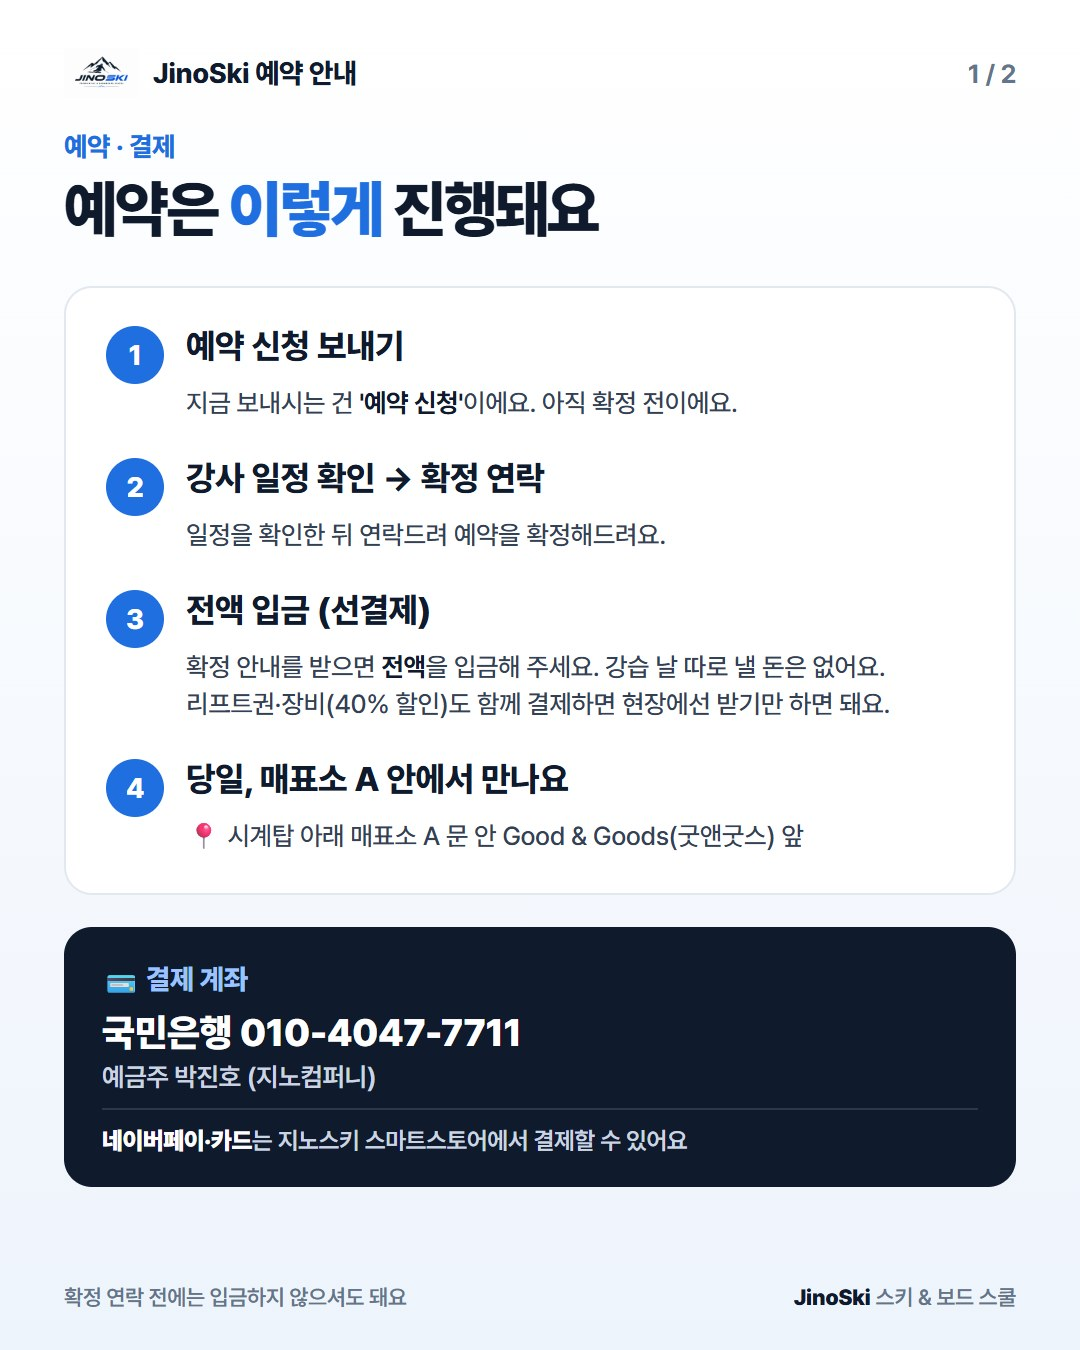
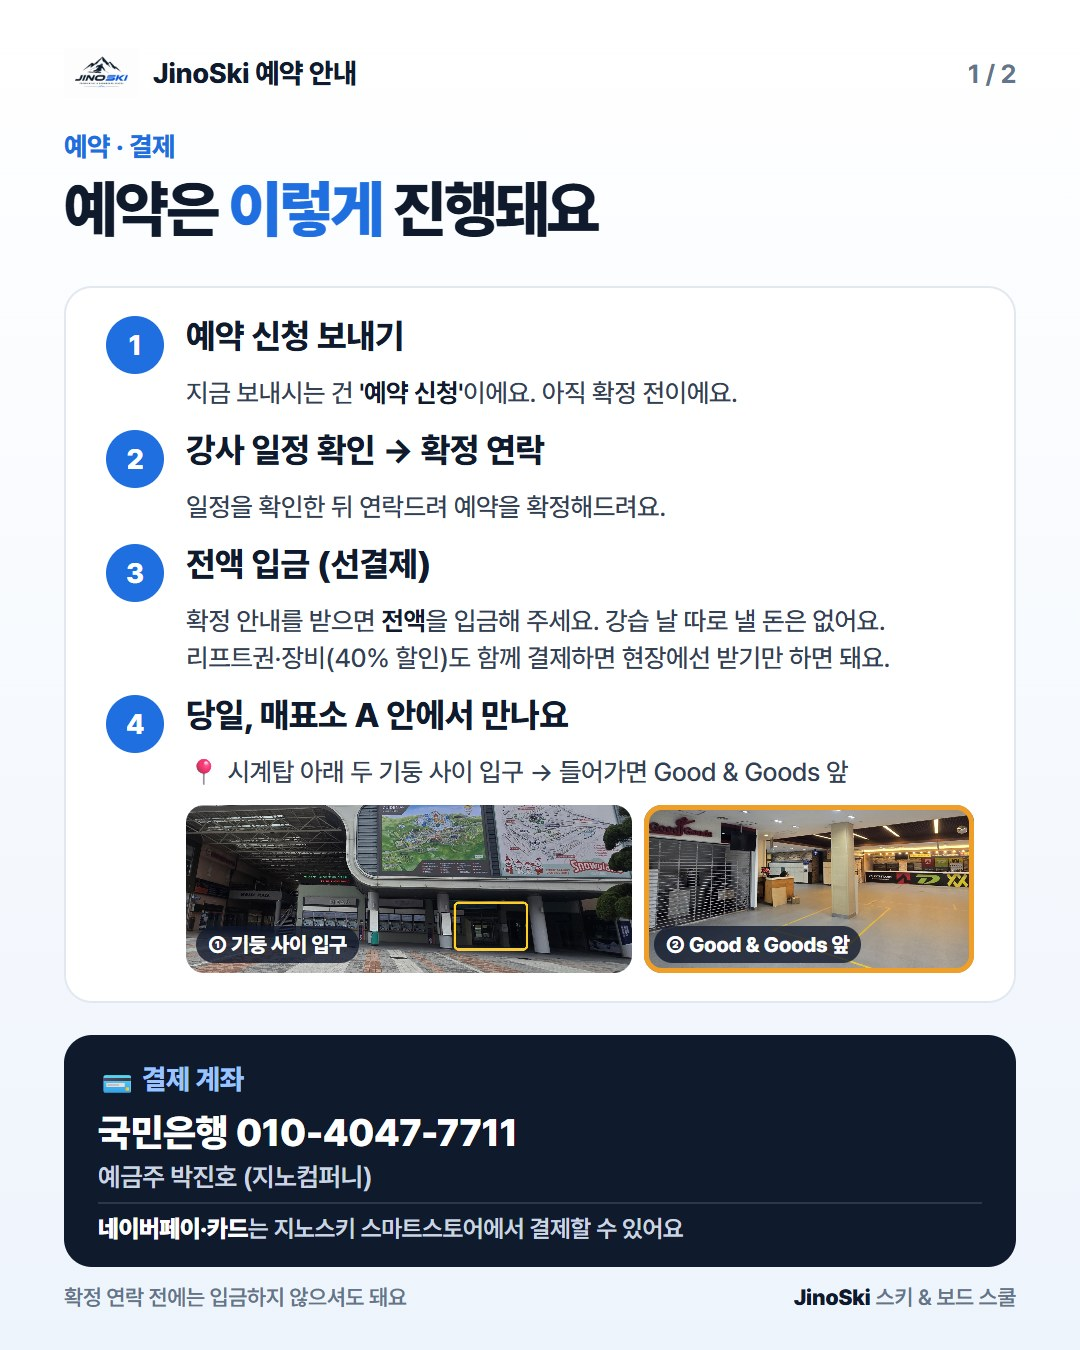
예약 안내 카드 4번에 입구·Good & Goods 사진, 예약 신청 글은 예상 금액까지만 (대표 11-23)

Changed region(s): [[0.0611, 0.2178, 0.9472, 0.9644]]

diff --git a/src/components/shared/guide-cards.tsx b/src/components/shared/guide-cards.tsx
@@ -219,7 +219,7 @@ export const DAY_LESSON_CARDS: GuideCard[] = [
 
 /** 예약하기 마지막 단계·접수 화면 「예약은 이렇게 진행돼요」 */
 export const BOOKING_CARDS: GuideCard[] = [
-  { src: "/images/guide/booking-1.jpg", alt: "지노스키 예약 진행 순서 — 1 예약 신청(아직 확정 전), 2 강사 일정 확인 후 확정 연락, 3 확정 안내 후 전액 입금(선결제), 4 당일 시계탑 아래 매표소 A 문 안 Good & Goods(굿앤굿스) 앞 집합. 네이버페이·카드는 지노스키 스마트스토어에서 결제" },
+  { src: "/images/guide/booking-1.jpg", alt: "지노스키 예약 진행 순서 — 1 예약 신청(아직 확정 전), 2 강사 일정 확인 후 확정 연락, 3 확정 안내 후 전액 입금(선결제), 4 당일 시계탑 아래 두 기둥 사이 입구로 들어가 Good & Goods(굿앤굿스) 앞 집합(입구·가게 사진). 네이버페이·카드는 지노스키 스마트스토어에서 결제" },
   { src: "/images/guide/booking-2.jpg", alt: "지노스키 취소·변경 규정 — 레슨 3일 전까지 전액 환불, 1~2일 전 50% 환불, 당일 취소·노쇼 환불 불가. 레슨 2일 전까지 1회 무료 일정 변경. 기상 악화로 슬로프가 닫히면 무료 변경 또는 전액 환불" },
 ];
 

diff --git a/src/app/[locale]/reserve/booking-wizard.tsx b/src/app/[locale]/reserve/booking-wizard.tsx
@@ -566,15 +566,12 @@ function buildSummaryMessage(state: WizardState, content: SiteContent): string {
 
   if (state.requestNote.trim()) lines.push("", `${labels.note}: ${state.requestNote.trim()}`);
 
+  // 한국어는 예상 금액(요청사항)까지만 — 준비물·만나는 곳·환불은 예약 안내 카드(사진)로 보여 줘요 (대표 11-23)
+  if (content.siteConfig.locale.startsWith("ko")) return lines.join("\n");
+
   lines.push("", ...buildGuidanceLines(content));
   lines.push("", labels.closing);
-  lines.push(
-    `${labels.businessPhone}: ${
-      content.siteConfig.locale.startsWith("ko")
-        ? content.contact.phone
-        : "+82-" + content.contact.phone.replace(/^0/, "")
-    }`
-  );
+  lines.push(`${labels.businessPhone}: ${"+82-" + content.contact.phone.replace(/^0/, "")}`);
 
   return lines.join("\n");
 }
